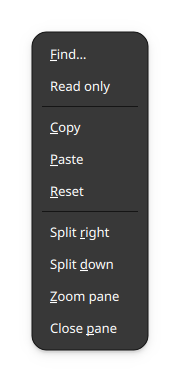
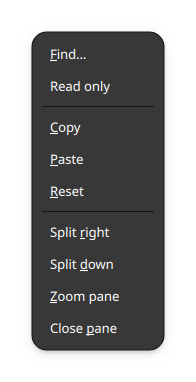
solidterm: menu popup sizes to its widest row (no more wrapped labels)
Review feedback on the previous menu commit: "Clear scrollback" wrapped
onto 2 lines, and the menu looked narrower than Adwaita's overall. A
native menu never wraps an item's label — the popup sizes to the
content, not the other way round.

Root cause: `model: root.contentModel` on the content ListView is an
OBJECT model (the actual MenuItem/MenuSeparator instances, not a
data+delegate pair). A vertical ListView never auto-sizes its own
implicitWidth from delegate content (only Row/Column propagate implicit
sizes that way), so nothing ever fed the widest row's natural width up
to the Menu — its width silently fell back to a bare 180px floor
regardless of what any row actually needed.

Fix:
- menuwidgets.cpp: kMenuContent's ListView now computes its own
  implicitWidth as `Math.max` over every row's `itemAtIndex(i).
  implicitWidth` (reactive: itemAtIndex's property reads make the
  binding re-run when a row is added/removed/relabelled). Menu's width
  floor changed from a flat 180 (window total) to Adwaita's real
  `popover.menu > contents { min-width: 120px }` (gtk.css:1721),
  applied to CONTENT width before padding. MenuItem's own per-row floor
  dropped from 180 to Adwaita's `modelbutton { min-width: 40px }`
  (gtk.css:1771) — a row's own floor is for an icon-only/very-short
  label; the CARD's overall minimum is the separate, larger number.
  MenuSeparator's implicitWidth dropped from 180 to 1 (its own line) so
[…]

diff --git a/transpiler/test/native-menus.test.ts b/transpiler/test/native-menus.test.ts
@@ -124,8 +124,11 @@ test("menus: the C++ Menu hosts the popup shell (implicit size, Popup.Window, cs
   // Popup.Window: its own popup surface so it overflows the app window (opened synchronously via the
   // ref/trigger/context forms so the Wayland grab gets a fresh input serial).
   assert.match(src, /setPopupType\(QQuickPopup::Window\)/);
-  // Width floor on the POPUP itself — a background CssFill's implicitWidth is clobbered by the engine.
-  assert.match(src, /setImplicitWidth\(qMax<qreal>\(180\.0, qMax\(implicitContentWidth\(\) \+ leftPadding\(\) \+ rightPadding\(\),/);
+  // Width = max(widest row, Adwaita's 120px content floor) + padding — a background CssFill's
+  // implicitWidth is clobbered by the engine, and a per-row/flat 180 floor used to wrap long
+  // labels (the widest row never fed its width up to the Menu before — see kMenuContent below).
+  assert.match(src, /constexpr qreal kContentFloor = 120\.0;/);
+  assert.match(src, /setImplicitWidth\(qMax\(qMax\(implicitContentWidth\(\), kContentFloor\) \+ leftPadding\(\) \+ rightPadding\(\),/);
   // Padding reserves BOTH the transparent shadow gutter and the real Adwaita row inset (see
   // kMenuShadowMargin/kMenuContentGutter in menuwidgets.cpp) — no longer a bare `setPadding(1)`.
   assert.match(src, /setPadding\(kMenuShadowMargin \+ kMenuContentGutter\)/);

diff --git a/apps/solidterm/src/term.css b/apps/solidterm/src/term.css
@@ -66,7 +66,11 @@
    "option"/"sep" sit on the SAME element, and the selector must ask for both on self, not ancestor+self. */
 .tmenu.popup { border-radius: 15px; }
 .tmenu.option { border-radius: 9px; }
-.tmenu.option-label { font-size: 13px; }
+/* A native menu never wraps an item's label — the POPUP sizes to the content, not the other way
+   round (see Menu/MenuItem::syncImplicit, menuwidgets.cpp, for the width-propagation fix this
+   pairs with: the ListView that hosts these rows never fed the widest one's width up to the Menu
+   before, so the card could end up narrower than a long label needed). */
+.tmenu.option-label { font-size: 13px; white-space: nowrap; }
 .tmenu.sep { margin: 6px 0; }
 
 /* preferences window — GNOME Settings geometry (grouped cards of label→control rows).

diff --git a/src/widgets/menuwidgets.cpp b/src/widgets/menuwidgets.cpp
@@ -38,11 +38,29 @@ Css.CssFill {
 
 const char *kMenuContent = R"(import QtQuick
 ListView {
+    id: lv
     property Item cssAncestor: root.cssAncestor
     clip: true
     model: root.contentModel
     currentIndex: root.currentIndex
     implicitHeight: contentHeight
+    // A vertical ListView never auto-sizes to its delegates' width (only Row/Column propagate
+    // implicit sizes) — `model` here is an OBJECT model (the actual MenuItem/MenuSeparator
+    // instances, not a data+delegate pair), so nothing ever fed the Menu's own implicitWidth the
+    // widest row's natural size; it silently fell back to the Menu's bare floor, and a long label
+    // (e.g. "Clear scrollback") wrapped inside whatever was left after padding. A native menu never
+    // wraps an item — the POPUP sizes to the content, not the other way round. `count`/`itemAtIndex`
+    // re-run this whenever a row is added/removed/relabelled (itemAtIndex's reads of
+    // `implicitWidth` are real property reads, so the binding re-evaluates when any row's own
+    // implicitWidth changes too — e.g. once a row's text metrics settle after font load).
+    implicitWidth: {
+        var w = 0
+        for (var i = 0; i < count; ++i) {
+            var it = lv.itemAtIndex(i)
+            if (it) w = Math.max(w, it.implicitWidth)
+        }
+        return w
+    }
     // Arrow keys belong to the MENU (activateNext/PreviousItem skips separators and moves
     // `highlighted`); an interactive ListView consumes the press itself once focus sits on
     // an item, so navigation only advances every other key (QTBUG-17051 — Basic's Menu
@@ -167,8 +185,12 @@ void Menu::componentComplete()
 
 void Menu::syncImplicit()
 {
-    setImplicitWidth(qMax<qreal>(180.0, qMax(implicitContentWidth() + leftPadding() + rightPadding(),
-                                              implicitBackgroundWidth() + leftInset() + rightInset())));
+    // Real Adwaita floor: `popover.menu > contents { min-width: 120px }` (gtk.css:1721) — applied
+    // to the CONTENT width (before padding), not the window total, so a short menu (e.g. a 2-item
+    // one) still gets a sensible card instead of shrink-wrapping to its narrowest label.
+    constexpr qreal kContentFloor = 120.0;
+    setImplicitWidth(qMax(qMax(implicitContentWidth(), kContentFloor) + leftPadding() + rightPadding(),
+                           implicitBackgroundWidth() + leftInset() + rightInset()));
     setImplicitHeight(qMax(implicitBackgroundHeight() + topInset() + bottomInset(),
                            implicitContentHeight() + topPadding() + bottomPadding()));
 }
@@ -231,7 +253,13 @@ void MenuItem::componentComplete()
 
 void MenuItem::syncImplicit()
 {
-    setImplicitWidth(qMax<qreal>(180.0, implicitContentWidth() + leftPadding() + rightPadding()));
+    // Real Adwaita: `popover.menu modelbutton { min-height: 32px; min-width: 40px; padding: 0
+    // 12px }` (gtk.css:1771) — a ROW's own floor is just enough for an icon-only/very short label;
+    // the CARD's overall minimum (Menu::syncImplicit's 120px content floor, gtk.css:1721) is a
+    // separate, larger number. A per-row floor of 180 (the old value) forced every row this wide
+    // regardless of its own text, which is backwards from how the widest row should actually drive
+    // the card's width.
+    setImplicitWidth(qMax<qreal>(40.0, implicitContentWidth() + leftPadding() + rightPadding()));
     setImplicitHeight(32);
 }
 
@@ -241,7 +269,11 @@ MenuSeparator::MenuSeparator(QQuickItem *parent)
     : QQuickMenuSeparator(parent)
 {
     setPadding(4);
-    setImplicitWidth(180);
+    // A separator never DEMANDS width (it's a line, not content) — it just stretches to whatever
+    // the menu ends up being, the same way every row does. A fixed 180 here used to feed straight
+    // into "widest row" width math and could force the card that wide even when every real item
+    // was shorter; 1 (its own line) lets the actual item labels drive the card's width instead.
+    setImplicitWidth(1);
     setImplicitHeight(9);
 }
 
@@ -257,7 +289,7 @@ void MenuSeparator::componentComplete()
 {
     QQuickMenuSeparator::componentComplete();
     setContentItem(createBoundItem(this, QStringLiteral("solidwidgets-menuseparator-rule"), kSeparatorRule));
-    setImplicitWidth(180);
+    setImplicitWidth(1);
     setImplicitHeight(9);
 }
 
